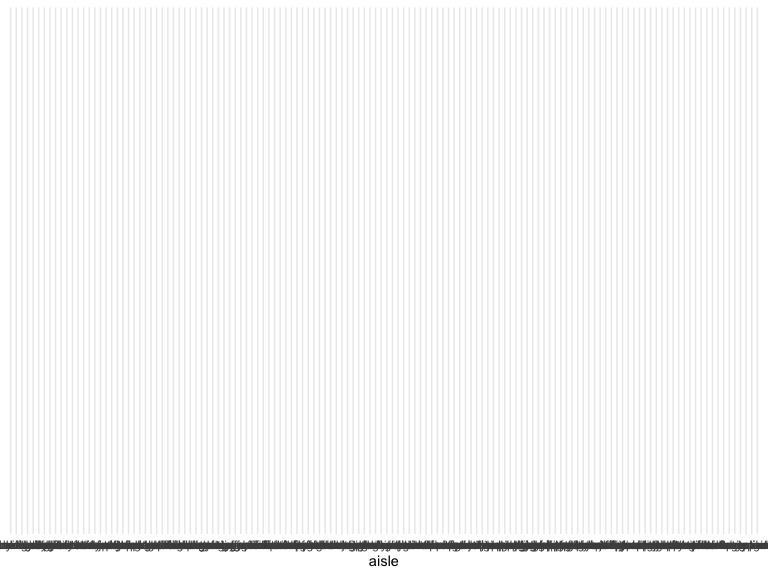
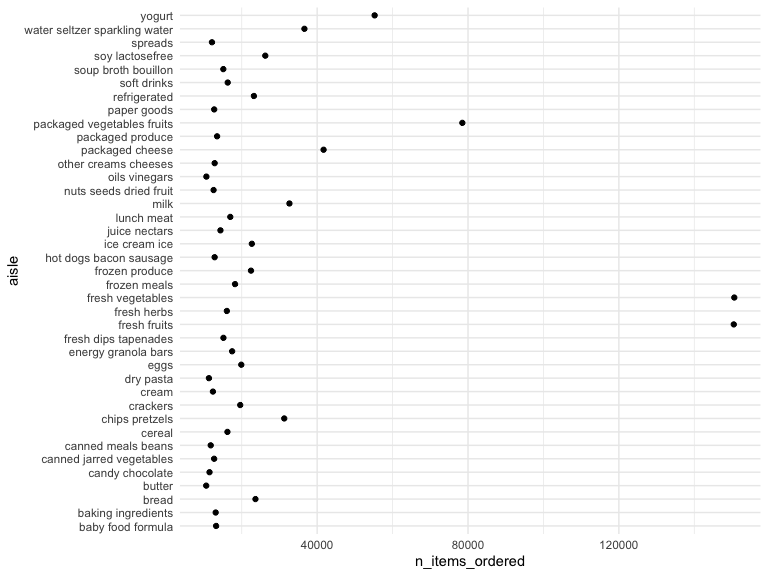
Switching x and y axis in aisle plot, problem 1

diff --git a/p8105_hw3_sm4594.md b/p8105_hw3_sm4594.md
@@ -41,6 +41,10 @@ instacart %>%
     ##      <int>
     ## 1      134
 
+``` r
+## change this to inline r code?
+```
+
 There are 134 aisles in the Instacart dataset.
 
 ``` r
@@ -48,6 +52,10 @@ names(which.max(table(pull(instacart, aisle))))
 ```
 
     ## [1] "fresh vegetables"
+
+``` r
+## return top three aisles rather than top one
+```
 
 The most items are ordered from the Fresh Vegetables aisle.
 
@@ -58,7 +66,7 @@ instacart %>%
     n_items_ordered = n()
   ) %>% 
   filter(n_items_ordered > 10000) %>% 
-  ggplot(aes(x = aisle, y = n_items_ordered)) + geom_point()
+  ggplot(aes(x = n_items_ordered, y = aisle )) + geom_point()
 ```
 
 <img src="p8105_hw3_sm4594_files/figure-gfm/aisle_plot-1.png" width="90%" />
